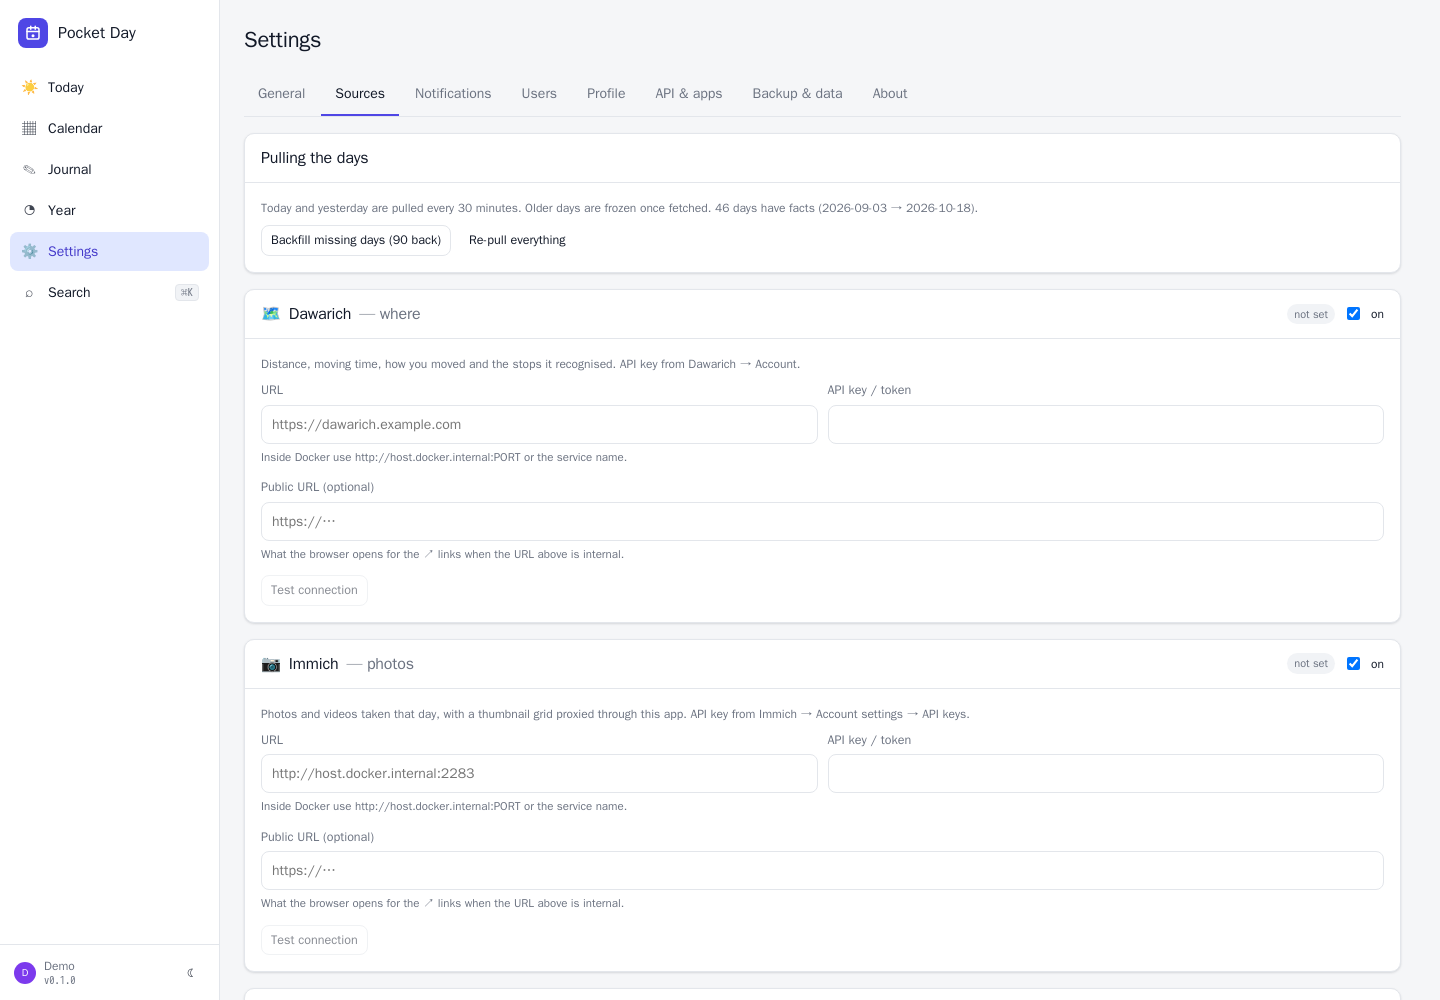
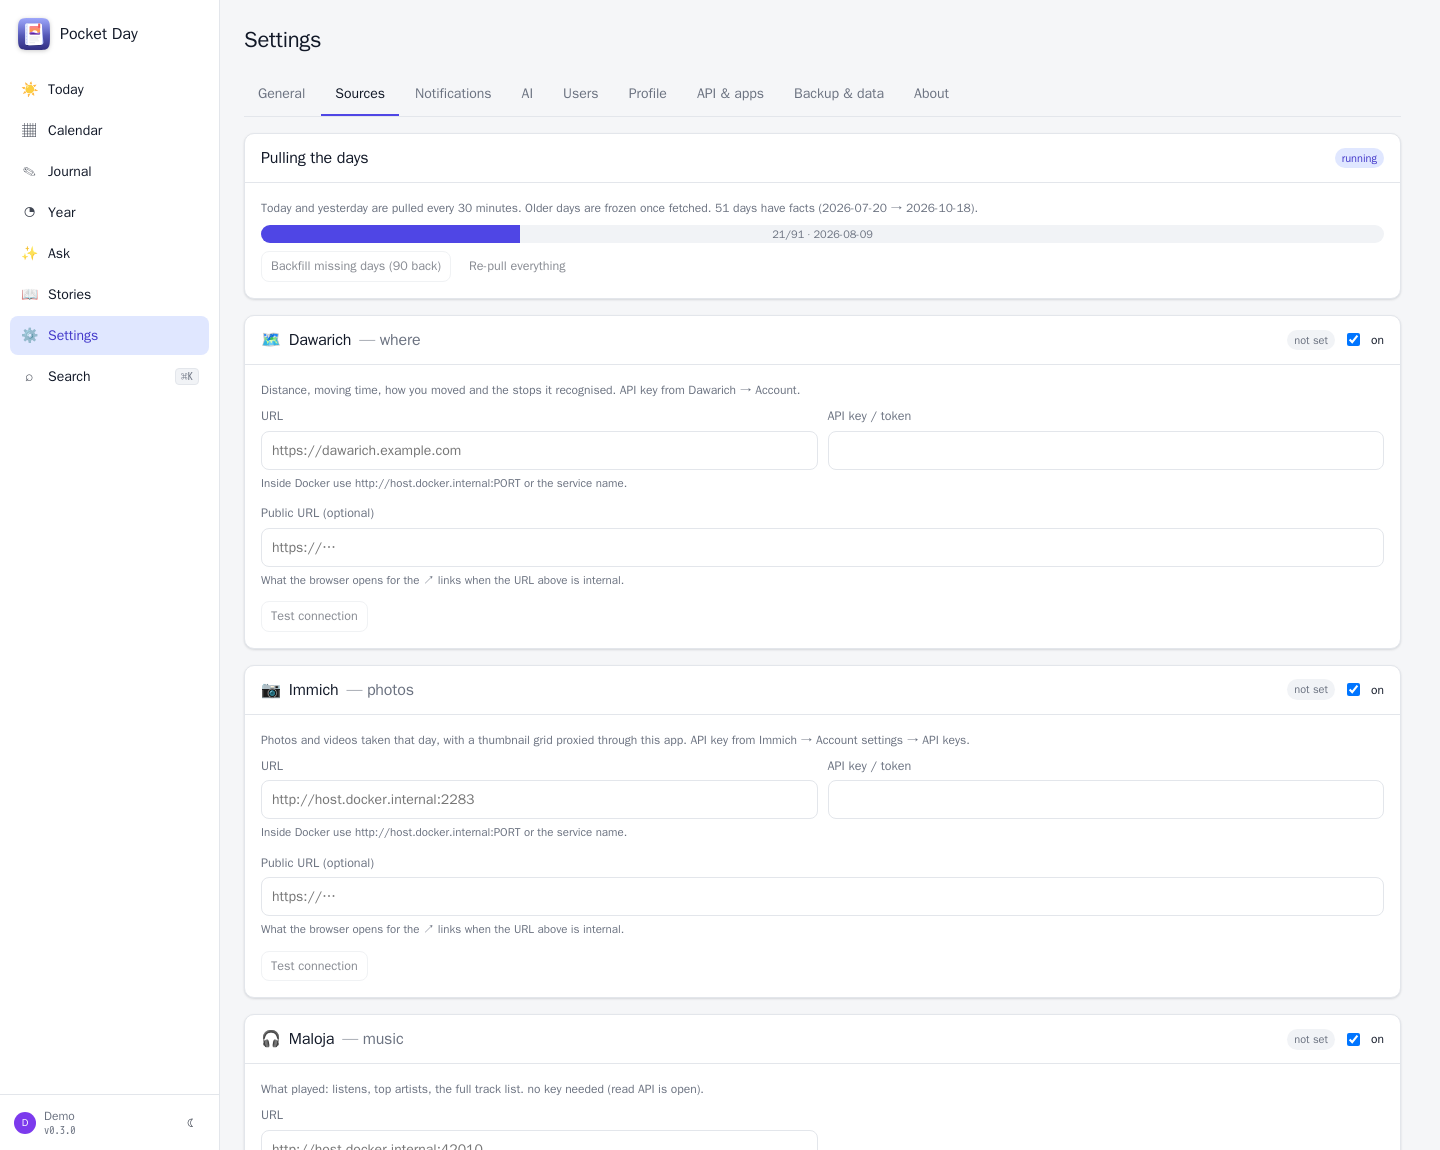
README: new screenshots of every page (day timeline, habits, calendar, heatmap, year, journal, stories, ask, AI settings, phone); demo data without personal places, real song titles, richer check-in; AI answers render lists and line breaks

diff --git a/web/src/components/ai.tsx b/web/src/components/ai.tsx
@@ -14,7 +14,16 @@ export function useAI() {
 
 /** Renders text with [YYYY-MM-DD] (and bare dates) as links to the day; blank lines become paragraphs. */
 export function CitedText({ text }: { text: string }) {
-  return <>{text.split(/\n{2,}/).map((para, i) => <p key={i}>{linkDates(para)}</p>)}</>
+  return <>{text.split(/\n{2,}/).map((para, i) => {
+    const lines = para.split('\n').map(l => l.trimEnd()).filter(Boolean)
+    const isItem = (l: string) => /^\s*([-*•]|\d+[.)])\s+/.test(l)
+    if (lines.length > 1 && lines.some(isItem)) {
+      const intro = lines.filter(l => !isItem(l))
+      const items = lines.filter(isItem)
+      return <div key={i}>{intro.length > 0 && <p>{linkDates(intro.join(' '))}</p>}<ul className="cited-list">{items.map((l, j) => <li key={j}>{linkDates(l.replace(/^\s*([-*•]|\d+[.)])\s+/, ''))}</li>)}</ul></div>
+    }
+    return <p key={i}>{lines.map((l, j) => <span key={j}>{j > 0 && <br />}{linkDates(l)}</span>)}</p>
+  })}</>
 }
 function linkDates(t: string): React.ReactNode[] {
   const out: React.ReactNode[] = []

diff --git a/web/src/styles.css b/web/src/styles.css
@@ -760,3 +760,4 @@ html, body { overflow-x: hidden; }
 .yr .tile { min-width: 0; }
 .yr .tile small { white-space: nowrap; overflow: hidden; text-overflow: ellipsis; }
 @media (max-width: 960px) { .yr .cal2-stats { display: flex; } .hm { min-width: 560px; } }
+.cited-list { margin: 4px 0 8px; padding-left: 20px; } .cited-list li { margin: 3px 0; line-height: 1.6; }

diff --git a/internal/server/demo.go b/internal/server/demo.go
@@ -70,7 +70,7 @@ func (s *Server) seedDemo(ctx context.Context) error {
 		}
 		put("dawarich", where, km, fmt.Sprintf("%.1f km · %s", km, sources.Plural(where.Places, "place", "places")))
 		np := rng.Intn(14)
-		ph := sources.Photos{Count: np, Items: []sources.Photo{}, Places: []string{"Banja Luka"}}
+		ph := sources.Photos{Count: np, Items: []sources.Photo{}, Places: []string{"Lisbon"}}
 		for j := 0; j < np; j++ {
 			ph.Items = append(ph.Items, sources.Photo{ID: fmt.Sprintf("demo-%s-%d", d, j), Type: "IMAGE", Time: fmt.Sprintf("%02d:%02d", 8+rng.Intn(12), rng.Intn(60))})
 		}
@@ -83,7 +83,7 @@ func (s *Server) seedDemo(ctx context.Context) error {
 		for j := 0; j < nl; j++ {
 			a := artists[rng.Intn(len(artists))]
 			ac[a]++
-			m.Items = append(m.Items, sources.Listen{Time: fmt.Sprintf("%02d:%02d", 7+j/3, rng.Intn(60)), Artist: a, Title: fmt.Sprintf("Track %d", 1+rng.Intn(12)), Album: "Album"})
+			m.Items = append(m.Items, sources.Listen{Time: fmt.Sprintf("%02d:%02d", 7+j/3, rng.Intn(60)), Artist: a, Title: demoSongs[a][rng.Intn(len(demoSongs[a]))], Album: ""})
 		}
 		m.Artists = sources.TopCounts(ac, 5)
 		if nl > 0 {
@@ -97,10 +97,10 @@ func (s *Server) seedDemo(ctx context.Context) error {
 		amt := sources.Round2(float64(rng.Intn(9000)) / 100)
 		mo := sources.Money{Count: 1 + rng.Intn(3), Totals: map[string]float64{"EUR": amt}, Main: "EUR", Items: []sources.Spend{{Description: "Groceries", Amount: amt, Currency: "EUR", Category: "food", Time: "17:20"}}, Categories: []sources.Count{{Name: "food", Count: 1}}}
 		put("firefly", mo, amt, fmt.Sprintf("%.2f EUR in %s", amt, sources.Plural(mo.Count, "transaction", "transactions")))
-		hb := sources.Checkin{Done: 2 + rng.Intn(3), Total: 4, Journal: "", Habits: []sources.HabitRow{{Name: "Run", Status: 1, Scheduled: true}, {Name: "Read", Status: 1, Scheduled: true}, {Name: "No sugar", Status: -1, Scheduled: true}, {Name: "Stretch", Status: 0, Scheduled: true}}, Trackers: []sources.TrackerRow{{Name: "Sleep", Unit: "h", Value: f64(6 + rng.Float64()*2.5)}}}
-		put("habits", hb, float64(hb.Done)/4*100, fmt.Sprintf("%d of 4 habits", hb.Done))
+		hb := demoCheckin(rng, 45-i)
+		put("habits", hb, float64(hb.Done)/float64(hb.Total)*100, fmt.Sprintf("%d of %d habits", hb.Done, hb.Total))
 		c := conds[rng.Intn(len(conds))]
-		w := sources.Day{Code: 1, Condition: c, TMax: f64(12 + rng.Float64()*14), TMin: f64(4 + rng.Float64()*8), PrecipMM: f64(float64(rng.Intn(6))), Place: "Banja Luka"}
+		w := sources.Day{Code: 1, Condition: c, TMax: f64(12 + rng.Float64()*14), TMin: f64(4 + rng.Float64()*8), PrecipMM: f64(float64(rng.Intn(6))), Place: "Lisbon"}
 		put("weather", w, *w.TMax, fmt.Sprintf("%s, %.0f–%.0f °C", sources.ConditionLabel(c), *w.TMin, *w.TMax))
 		if rng.Intn(3) == 0 {
 			ck := sources.Cooked{Cooks: []sources.Cook{{Title: []string{"Shakshuka", "Pasta al limone", "Chicken curry", "Pancakes"}[rng.Intn(4)], Servings: 2, Rating: 4}}}
@@ -114,4 +114,43 @@ func (s *Server) seedDemo(ctx context.Context) error {
 func f64(v float64) *float64 {
 	r := sources.Round1(v)
 	return &r
+}
+
+// demoCheckin is a plausible Pocket Habits day: five habits with streaks,
+// two 1–5 scales, a yes/no where "no" is good, and a number.
+func demoCheckin(rng *rand.Rand, n int) sources.Checkin {
+	names := []string{"Run", "Read 20 pages", "No sugar", "Stretch", "In bed by 23:00"}
+	c := sources.Checkin{Total: len(names), Habits: []sources.HabitRow{}, Trackers: []sources.TrackerRow{}}
+	for i, name := range names {
+		st := []int{1, 1, 1, -1, 0}[rng.Intn(5)]
+		if i == 1 { // reading almost always happens
+			st = 1
+		}
+		if st == 1 {
+			c.Done++
+		}
+		c.Habits = append(c.Habits, sources.HabitRow{ID: int64(i + 1), Name: name, Status: st, Scheduled: true, Streak: (n * (i + 2)) % 9})
+	}
+	one, five, zero := 1.0, 5.0, 0.0
+	yes, no := true, false
+	scale := func(id int64, name string) sources.TrackerRow {
+		v, p := float64(2+rng.Intn(4)), float64(2+rng.Intn(4))
+		return sources.TrackerRow{ID: id, Name: name, Kind: "scale", Value: &v, Previous: &p, Min: &one, Max: &five, HigherIsBetter: &yes}
+	}
+	c.Trackers = append(c.Trackers, scale(1, "Sleep quality"), scale(2, "Energy"))
+	hv := float64(rng.Intn(5) / 4) // mostly no headache
+	c.Trackers = append(c.Trackers, sources.TrackerRow{ID: 3, Name: "Headache?", Kind: "yesno", Value: &hv, Min: &zero, Max: &one, HigherIsBetter: &no})
+	water := float64(4 + rng.Intn(5))
+	pw := water - 1
+	c.Trackers = append(c.Trackers, sources.TrackerRow{ID: 4, Name: "Water", Kind: "number", Unit: "glasses", Value: &water, Previous: &pw, HigherIsBetter: &yes})
+	return c
+}
+
+var demoSongs = map[string][]string{
+	"Boards of Canada": {"Roygbiv", "Dayvan Cowboy", "Olson", "Turquoise Hexagon Sun"},
+	"Khruangbin":       {"Maria También", "White Gloves", "People Everywhere", "August 10"},
+	"Nils Frahm":       {"Says", "Ambre", "Familiar", "All Melody"},
+	"Radiohead":        {"Weird Fishes", "Reckoner", "Daydreaming", "No Surprises"},
+	"Bonobo":           {"Kerala", "Cirrus", "Kiara", "First Fires"},
+	"Tycho":            {"Awake", "Dive", "A Walk", "Epoch"},
 }

diff --git a/internal/sources/sources_test.go b/internal/sources/sources_test.go
@@ -10,7 +10,7 @@ import (
 )
 
 func TestMalojaKeepsOnlyTheLocalDay(t *testing.T) {
-	loc, _ := time.LoadLocation("Europe/Sarajevo")
+	loc, _ := time.LoadLocation("Europe/Berlin")
 	day := time.Date(2026, 10, 17, 0, 0, 0, 0, loc)
 	ts := func(h int) int64 { return day.Add(time.Duration(h) * time.Hour).Unix() }
 	srv := httptest.NewServer(http.HandlerFunc(func(w http.ResponseWriter, r *http.Request) {

diff --git a/README.md b/README.md
@@ -26,26 +26,39 @@ A self-hosted server already records your life in pieces: Dawarich has the route
 - **AI, if you want it.** Add an OpenAI key and the day page drafts your entry from what the apps recorded, asks one specific question about the day, suggests a highlight, tags and mood, and takes dictation. Weeks, months and years get written up as stories, and you can ask the journal things like “when was I last at the lake?” and get an answer that links the days.
 - **Two pushes a day.** An evening “How was today?” with the day's numbers (skipped once you wrote), a morning “On this day”. Apprise, ntfy or a webhook.
 
-<p align="center"><img src="docs/screenshots/day.png" width="900" alt="A day: the entry editor and moments on the left, where, photos, music and watched on the right"></p>
+<p align="center"><img src="docs/screenshots/day.png" width="900" alt="A day: the day's numbers as pills, the entry with AI draft, suggest and dictation, a timeline of the day, and cards for photos, where, music, habits, money and cooking"></p>
 
 <table>
   <tr>
-    <td width="50%"><img src="docs/screenshots/calendar.png" alt="Month grid with highlight, mood edge, weather and per-day counts"></td>
-    <td width="50%"><img src="docs/screenshots/year.png" alt="Year in review: totals, month bars, moods, most played"></td>
+    <td width="50%"><img src="docs/screenshots/calendar.png" alt="Calendar coloured by each day's photo, with month tiles, the year strip and a preview of the selected day"></td>
+    <td width="50%"><img src="docs/screenshots/calendar-heatmap.png" alt="The same month as a distance heatmap with kilometres per day"></td>
   </tr>
   <tr>
-    <td align="center"><sub>Calendar: mood on the edge, the day's numbers underneath.</sub></td>
-    <td align="center"><sub>Year: everything the year was, from your words and the apps.</sub></td>
+    <td align="center"><sub>Calendar: every day behind its best photo, a preview without leaving the month.</sub></td>
+    <td align="center"><sub>…or coloured by mood, distance, music, watching or spending.</sub></td>
   </tr>
   <tr>
+    <td width="50%"><img src="docs/screenshots/year.png" alt="Year in review: tiles, the AI story of the year, a heatmap of every day and month bars"></td>
     <td width="50%"><img src="docs/screenshots/journal.png" alt="Journal list with search, mood filter, tags and one-line summaries from every source"></td>
+  </tr>
+  <tr>
+    <td align="center"><sub>Year: the story, every day as a heatmap, month bars, most played, money by category.</sub></td>
+    <td align="center"><sub>Journal: search your words, filter by mood or tag.</sub></td>
+  </tr>
+  <tr>
+    <td width="50%"><img src="docs/screenshots/stories.png" alt="Stories: the week written up by the AI"></td>
     <td width="50%"><img src="docs/screenshots/sources.png" alt="Settings: one card per source with URL, key and connection test"></td>
   </tr>
   <tr>
-    <td align="center"><sub>Journal: search your words, filter by mood or tag.</sub></td>
+    <td align="center"><sub>Stories: weeks, months and years written up from your days.</sub></td>
     <td align="center"><sub>Sources: connect what you run, test, backfill.</sub></td>
   </tr>
 </table>
+
+<p align="center">
+  <img src="docs/screenshots/phone-day.png" width="260" alt="The day on a phone">&nbsp;&nbsp;
+  <img src="docs/screenshots/phone-calendar.png" width="260" alt="The calendar on a phone">
+</p>
 
 ## Sources
 
@@ -72,7 +85,7 @@ Settings → AI takes an OpenAI key (or any OpenAI-compatible endpoint). Default
 | Feature | Where | What it does |
 |---|---|---|
 | **Draft my day** | day page | A first-person draft from the facts, moments and pins — or only the sentences your own text is missing. Never invents feelings. |
-| **Tonight's question** | day page, evening push | One question about something concrete in the day (“what took you to Prijedor?”) instead of the generic prompt. |
+| **Tonight's question** | day page, evening push | One question about something concrete in the day (“what took you to the coast?”) instead of the generic prompt. |
 | **Suggest** | day page | A highlight, tags from your own tag vocabulary and a mood, from what you wrote. |
 | **Dictation** | entry, moments, Ask | 🎙 record in the browser, transcribed and added. |
 | **Stories** | Calendar, Year, Stories | The week, month or year as a short story in the second person; the week is pushed on Sunday evening. |
@@ -81,7 +94,16 @@ Settings → AI takes an OpenAI key (or any OpenAI-compatible endpoint). Default
 
 The model only ever sees plain-text summaries of the days it needs — never photos — and “Send what I wrote” can keep your own words out of it. Token use per feature is listed under Settings → AI. It writes in the language of your entries unless you set one.
 
-<p align="center"><img src="docs/screenshots/ask.png" width="900" alt="Ask your journal: questions answered with links to the days"></p>
+<table>
+  <tr>
+    <td width="50%"><img src="docs/screenshots/ask.png" alt="Ask your journal: questions answered with links to the days"></td>
+    <td width="50%"><img src="docs/screenshots/settings-ai.png" alt="Settings → AI: key, model, language, options and token usage per feature"></td>
+  </tr>
+  <tr>
+    <td align="center"><sub>Ask: answers with the days they came from.</sub></td>
+    <td align="center"><sub>Settings → AI: what is sent, and what it cost in tokens.</sub></td>
+  </tr>
+</table>
 
 ## Run it
 
@@ -100,7 +122,7 @@ docker run -d --name pocket-day -p 8080:8080 -e TZ=Europe/Berlin -v $PWD/data:/d
 
 Or the binary from the [releases](https://github.com/abjelosevic88/pocket-homelab-day/releases): `DATA_DIR=./data ./pocket-day`. A systemd unit is in `deploy/systemd/`.
 
-Set `TZ`: a day is midnight to midnight in that zone. Want to look around first? `DEMO_DATA=true AUTH_MODE=none` seeds six weeks of journal and synthetic facts.
+Set `TZ`: a day is midnight to midnight in that zone. Want to look around first? `DEMO_DATA=true AUTH_MODE=none` seeds six weeks of journal and synthetic facts (the screenshots above are that demo).
 
 ## Documentation
 
